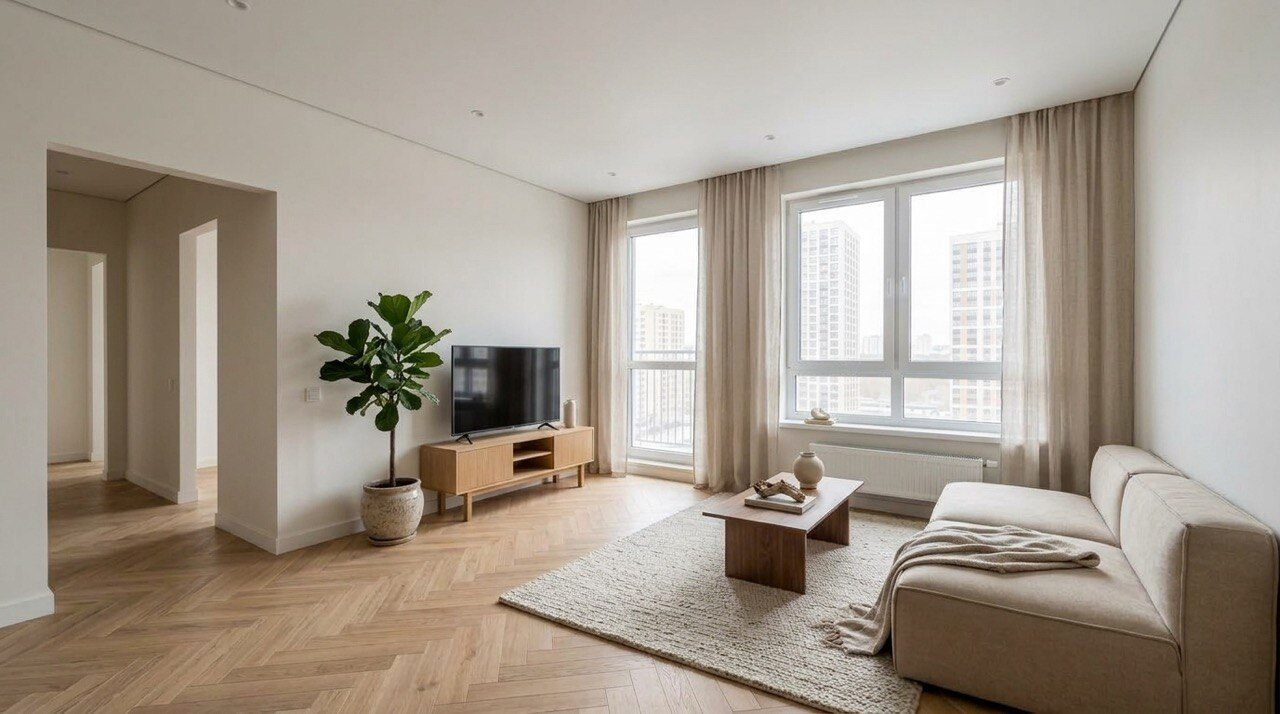
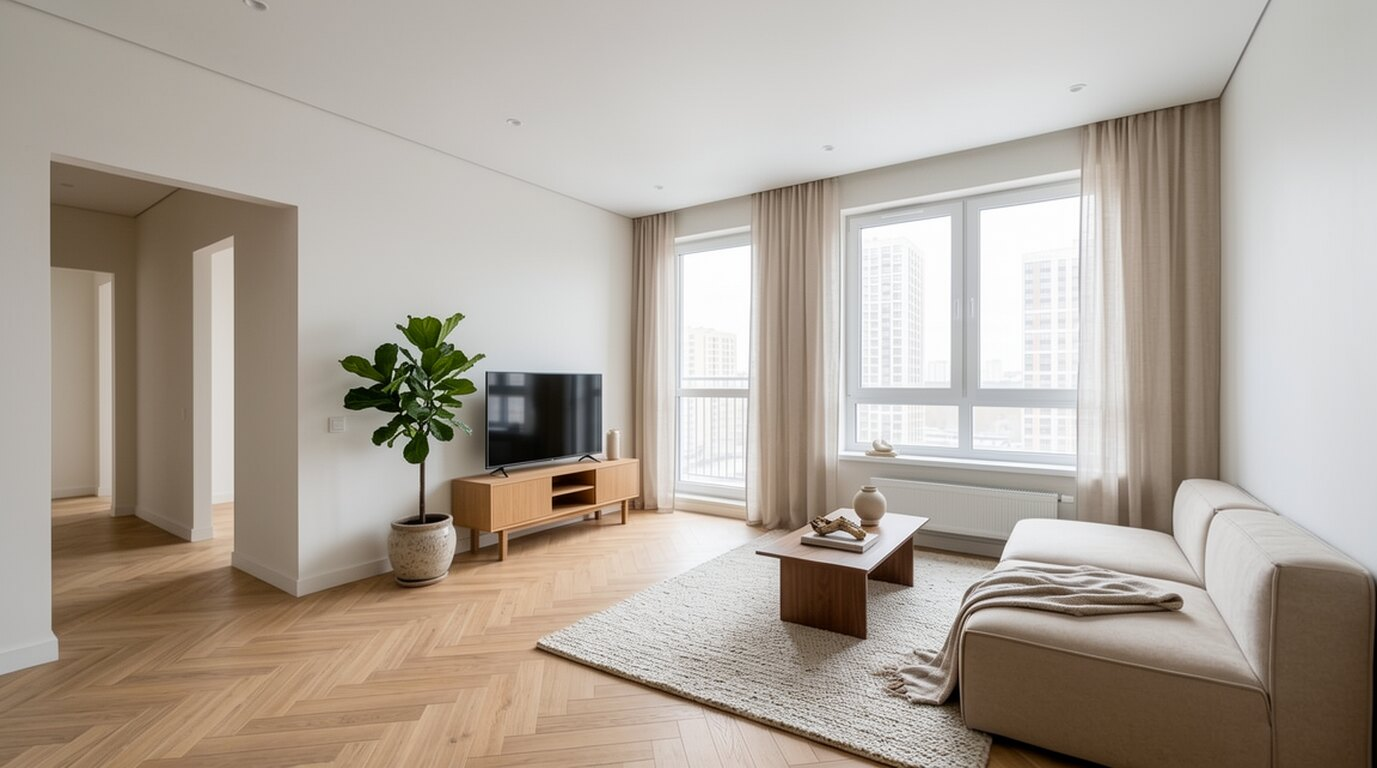
Replace before/after photos with higher-quality versions
Claude-Session: https://claude.ai/code/session_01CSYCmsYEsfGfuLAZRJC8KX

diff --git a/index.html b/index.html
@@ -366,7 +366,7 @@
               <div class="ba__after">
                 <picture class="ba__img">
                   <source srcset="images/ba1-after.webp" type="image/webp">
-                  <img src="images/ba1-after.jpg" width="1280" height="714" alt="ЖК «Символ», та же гостиная после дизайнерского ремонта: паркет ёлочкой, шторы, диван" loading="lazy" decoding="async" draggable="false">
+                  <img src="images/ba1-after.jpg" width="1377" height="768" alt="ЖК «Символ», та же гостиная после дизайнерского ремонта: паркет ёлочкой, шторы, диван" loading="lazy" decoding="async" draggable="false">
                 </picture>
                 <button class="ba-spot" type="button" data-x="72" data-y="33" data-t="Шторы" data-h="Скрытый карниз в потолке" data-p="Нишу под карниз закладываем ещё на этапе потолков — шторы идут от самого верха." aria-label="Шторы: Скрытый карниз в потолке"></button>
                 <button class="ba-spot" type="button" data-x="69" data-y="70" data-t="Пол" data-h="Паркет ёлочкой, дуб" data-p="Укладка на клей по выровненной стяжке, покрытие маслом." aria-label="Пол: Паркет ёлочкой, дуб"></button>
@@ -386,13 +386,13 @@
               <div class="ba__before">
                 <picture class="ba__img">
                   <source srcset="images/ba2-before.webp" type="image/webp">
-                  <img src="images/ba2-before.jpg" width="1280" height="714" alt="Хамовники, комната до ремонта: старые обои, крашеный пол, чугунная батарея" loading="lazy" decoding="async" draggable="false">
+                  <img src="images/ba2-before.jpg" width="1376" height="768" alt="Хамовники, комната до ремонта: старые обои, крашеный пол, чугунная батарея" loading="lazy" decoding="async" draggable="false">
                 </picture>
               </div>
               <div class="ba__after">
                 <picture class="ba__img">
                   <source srcset="images/ba2-after.webp" type="image/webp">
-                  <img src="images/ba2-after.jpg" width="1280" height="714" alt="Хамовники, та же комната после капитального ремонта: ровные стены, паркетная доска, новое окно" loading="lazy" decoding="async" draggable="false">
+                  <img src="images/ba2-after.jpg" width="1920" height="1072" alt="Хамовники, та же комната после капитального ремонта: ровные стены, паркетная доска, новое окно" loading="lazy" decoding="async" draggable="false">
                 </picture>
                 <button class="ba-spot" type="button" data-x="60" data-y="33" data-t="Стены" data-h="Выравнивание под покраску" data-p="Штукатурка по маякам, шпаклёвка и моющаяся краска." aria-label="Стены: Выравнивание под покраску"></button>
                 <button class="ba-spot" type="button" data-x="55" data-y="17" data-t="Потолок" data-h="Молдинг и точечный свет" data-p="Новая проводка по всей квартире, светильники встроены в потолок." aria-label="Потолок: Молдинг и точечный свет"></button>
